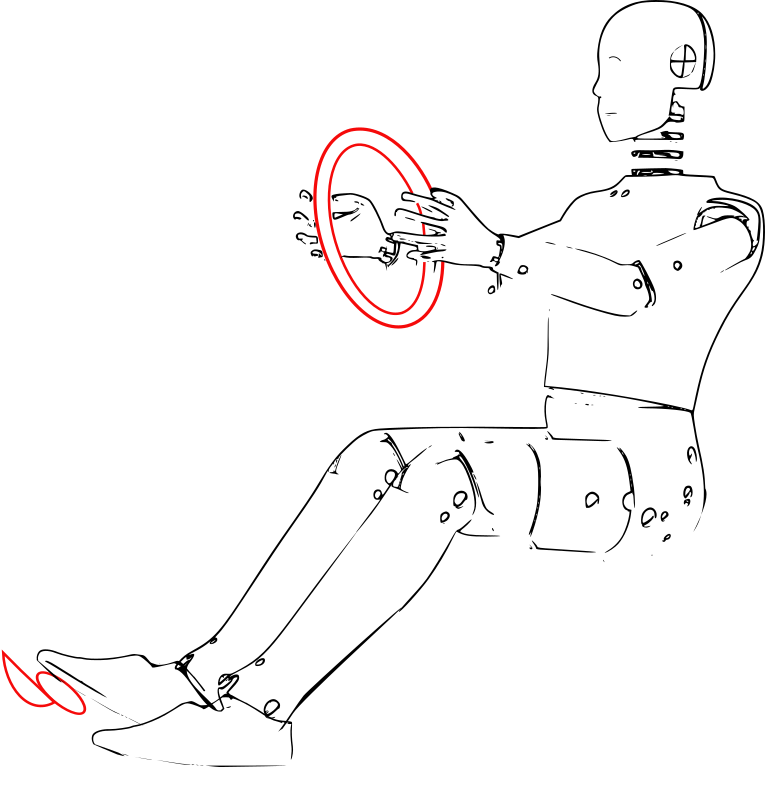
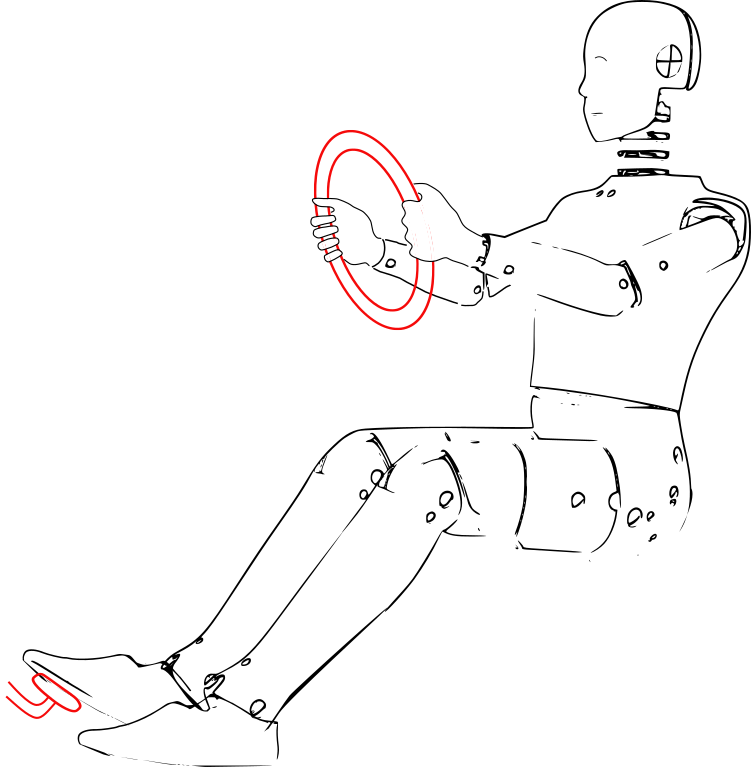
je-ibsoftsys: worked on image symbol-develop-safety-critical (mainly on hands) and decreased dimensions of symbol-model-of-distributed (took too  long to load because it was too expensive to scale down)

diff --git a/ai-card-player/je-ibsoftsys/styles/je-ibsoftsys.css b/ai-card-player/je-ibsoftsys/styles/je-ibsoftsys.css
@@ -10,7 +10,7 @@ Inspired by: "Constant text in CSS". https://www.sitepoint.com/community/t/const
 State of mind on August 25, 2021.
 */
 span.updated-on:before {
-    content:'Oct 12 11:06:30 CEST 2021';
+    content:'Oct 13 14:00 CEST 2021';
     font-size: inherit;
 }
 
